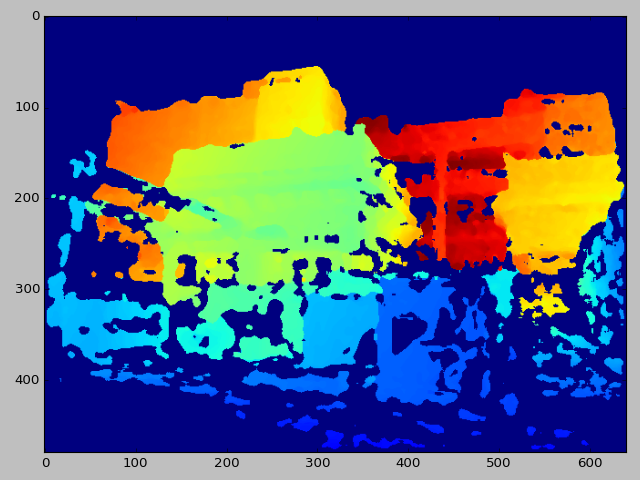
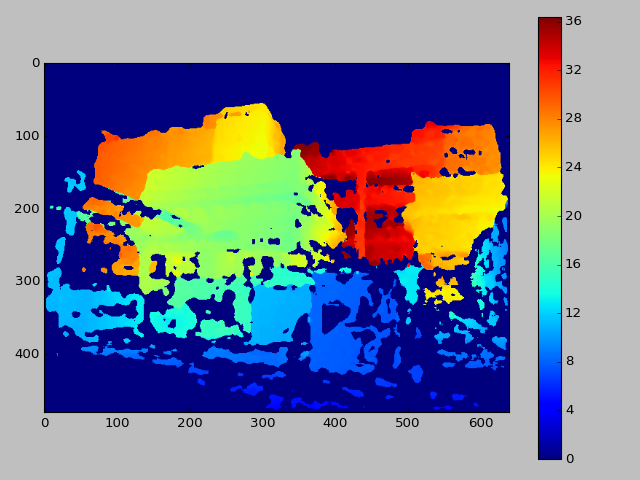
Updated readme with more images and eqns

diff --git a/uw_cv/hw2/uw_strobe_sim/strobe_sim.py b/uw_cv/hw2/uw_strobe_sim/strobe_sim.py
@@ -23,6 +23,7 @@ def depthmap_loader(path_to_depthmap, image_resize=True, resize_size=(3264,2448)
 
     depthmap = np.load(path_to_depthmap)
     plt.imshow(depthmap['depth'])
+    plt.colorbar()
     plt.show()
     result, odm = depthmap_preprocessor(depthmap)
 
@@ -156,10 +157,12 @@ if __name__ == '__main__':
     image_size = (640, 480)
     # image_size = (3264, 2448)
 
-    # plt.imshow(fdm)
-    # plt.show()
-    # plt.imshow(rdm)
-    # plt.show()
+    plt.imshow(fdm)
+    plt.colorbar()
+    plt.show()
+    plt.imshow(rdm)
+    plt.colorbar()
+    plt.show()
 
     # calibration_matrix = [[2614.6799607/5.1, 0, 1632.33532693/5.1],
     #                       [0, 2626.31303303/5.1, 1228.99718842/5.1],

diff --git a/uw_cv/hw2/README.md b/uw_cv/hw2/README.md
@@ -16,10 +16,11 @@ The depthmap was obtained using openSfM in hw1:
 
 ![raw_depthmap](output_images/depthmap_raw.png)
 
-It can be seen that the depthmap is noisy with speckled nois and also
-that there are a lot of blank spaces with no info (the deep blue).
+It can be seen that the depthmap is noisy with speckled noise and also
+that there are a lot of blank spaces with no info (the deep blue). The
+colorbar on the side is in meters.
 To remove the speckled noise I used a mean filter of kernel size 7.
-the depthmap size is 604x480px.
+the depthmap size is 640x480px.
 
 ![depthmap_filtered](output_images/depthmap_mean_lpf_k7.png)
 
@@ -34,12 +35,25 @@ relying on the depthmap from 1.a and the camera matrix from the previous
 hw to preform the calculation. We'll take the pinhole camera model
 ([equation from opencv webstite](https://docs.opencv.org/2.4/modules/calib3d/doc/camera_calibration_and_3d_reconstruction.html)):
 
+![pinhole_matrix](eqns/opencv_pinhole_matrix.png)
+
 ![pinhole_model](eqns/opencv_pinhole_model.png)
 
-and solve for x, y and z using the following code:
+If I'm to take the last 2 equations and multiply by z I'll get:
+
+![world_coord1](eqns/world_coord1.gif)
+
+and solve for x,y,z:
+
+![world_coord2](eqns/world_coord2.gif)
+
+and in the code:
+
 ```python
 world_coordinates[u][v] = np.transpose(np.linalg.inv(calibration_matrix) * np.transpose(np.matrix([u,v,1]))* z)
 ```
+The result is a 3d matrix where 2 axes are the size of the image and the 3rd axis is the
+coordinate vector of the object in 3d space.
 
 We assume that the camera is in (0,0,0) in world coordinates with rotation
 of 0. From hw1 the callibration matrix:
@@ -108,14 +122,37 @@ strobe is located at (10,10,0)cm and (50, 50, 0)cm respectively.
 
 ## Conclusion
 
-The model works as expected, producing rather realistic results.  It is rather difficult
-to attain a realistic depthmap from SfM with the need for prefilters.
+Four simulations were done in total, the simulations produced using an existing image
+with depth of field information.
+The model works as expected, producing rather realistic results.
 
 The different water types affected colour transmission and backscatter, as expected.
 With the J1 water type having almost no backscatter, which is in line with the
 beta_hg numbers given to it. Also we can see colour differences in the different
 water types which is in line with the different transmission loss coefficients.
 
-Regarding the strobe position we can see that when the strobe is placed farther away
+Regarding the strobe position there are a number of things to take note of.
+First, we can see that when the strobe is placed farther away
 we get much less backscatter. This is due to an decrease in the angle of phi , i.e.
 the angle between the ray from the strobe to object and object to camera.
+Second, a greater strobe intensity could be used for the farther strobe setup,
+around one and a half times greater than the closer setup. This lead to greater
+illumination of the objects farther from the camera.
+Third, it can be seen that the floor in th forground is more lit when the strobe is positioned
+closer to the camera. This may be due to the fact that I assumed that the image plane
+is in the z direction for the whole scene. If a real plane were to be used the phi
+angle would increase and the floor would be dimmer.
+
+There are a number of improvements that can be done to improve the simulation quality,
+most notably, aquiring a better depthmap. The depthmap that I aquired was relatively
+sparse and had no usable information in the forground(where the floor is located).
+Another feature to implement would be to accurately compute the plane surfaces so as
+to get an accurate angle phi.
+
+Regarding code runtime, the computation of backscatter was very slow. This is due to
+the fact that the integration done was very accurate and also a for loop was
+implemented to compute each pixel in the backscatter. It took between minutes to tens
+of minutes to compute each 640x480 image.
+There can be faster ways compute for example:
+* Instead of a for loop implement a vectorised operation.
+* Implement the integration function as a ctype.
